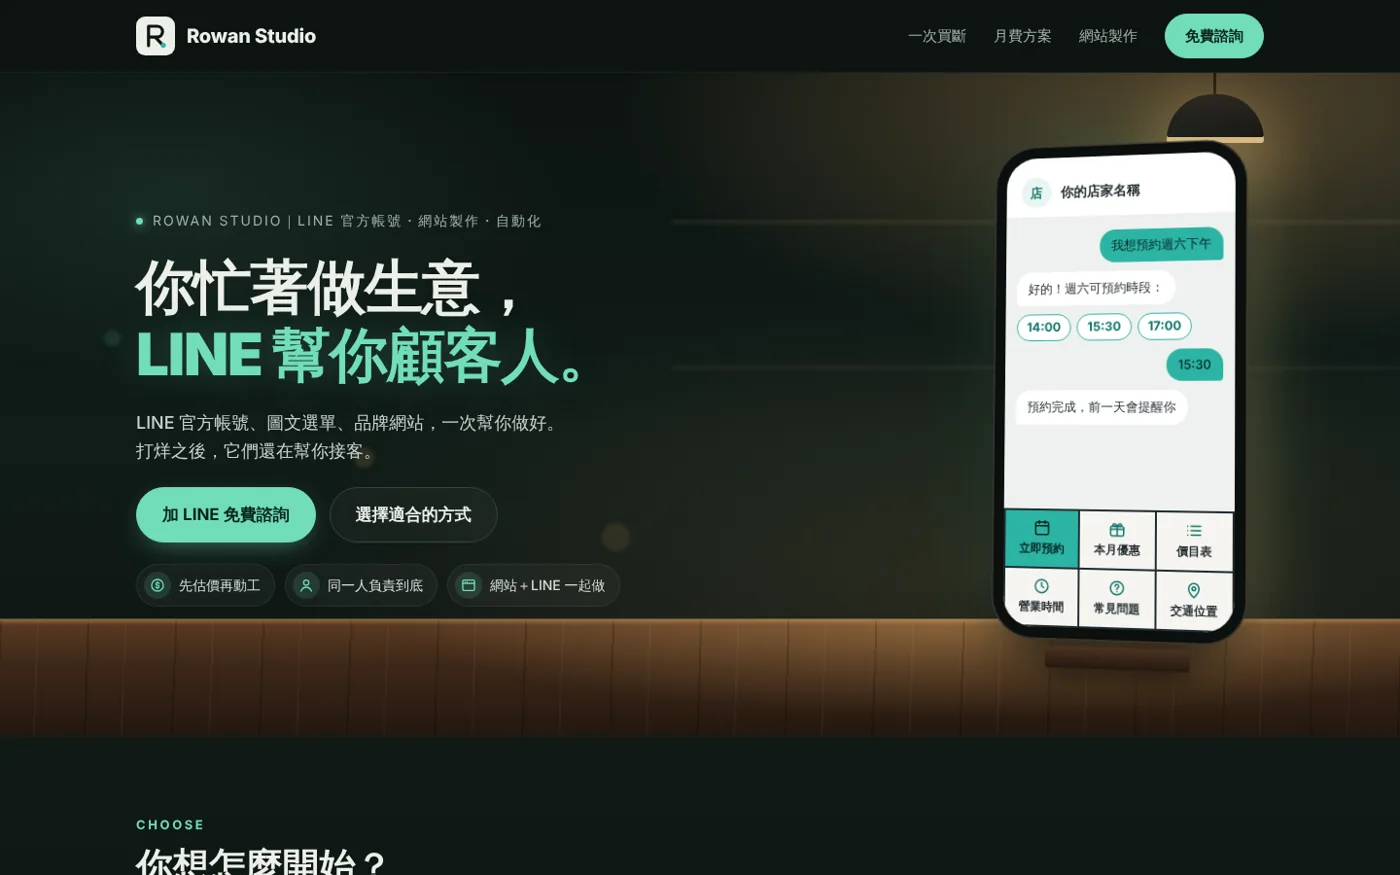
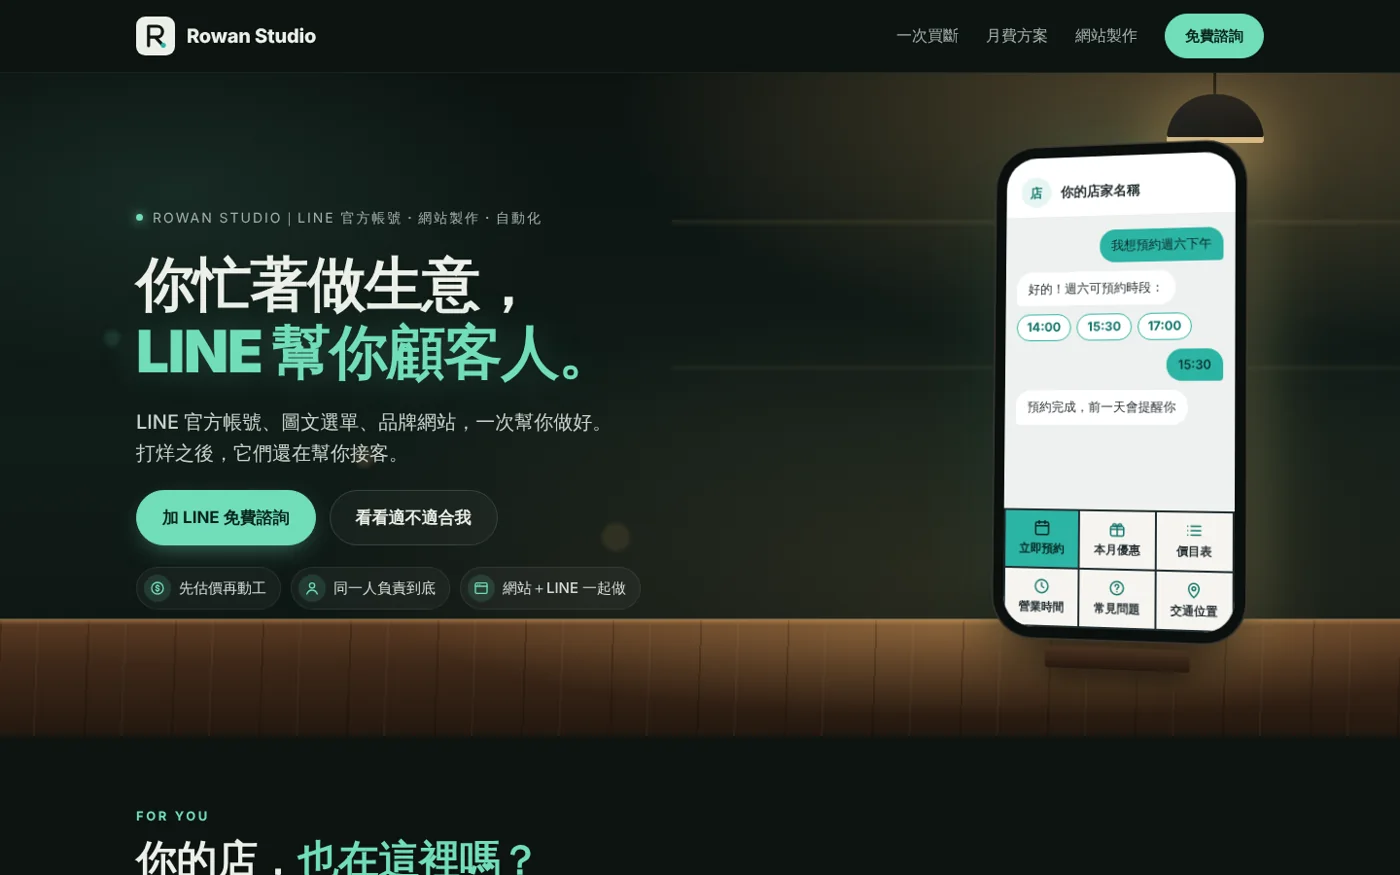
首頁重排：產業放大、WHY 三欄、價格往下、電腦版字放大 (#12)
Claude-Session: https://claude.ai/code/session_01Jv5xToDH4eLrV48W92rnBD

diff --git a/index.html b/index.html
@@ -50,6 +50,7 @@
   <symbol id="i-web" viewBox="0 0 24 24"><rect x="3" y="4" width="18" height="16" rx="2"></rect><path d="M3 9h18M7 6.5h.01M10 6.5h.01"></path></symbol>
   <symbol id="i-domain" viewBox="0 0 24 24"><circle cx="12" cy="12" r="9"></circle><path d="M3 12h18M12 3a14 14 0 0 1 0 18M12 3a14 14 0 0 0 0 18"></path></symbol>
   <symbol id="i-line" viewBox="0 0 24 24"><path d="M12 4C7 4 3 7.2 3 11.2c0 3.6 3.2 6.6 7.5 7.1l-.4 2.3 3.3-2.3c4.4-.3 7.6-3.4 7.6-7.1C21 7.2 17 4 12 4z"></path></symbol>
+  <symbol id="i-cross" viewBox="0 0 24 24"><rect x="3" y="3" width="18" height="18" rx="4"></rect><path d="M12 8v8M8 12h8"></path></symbol>
   <symbol id="i-image" viewBox="0 0 24 24"><rect x="3" y="4" width="18" height="16" rx="2"></rect><circle cx="9" cy="10" r="2"></circle><path d="M21 16l-5-5L5 20"></path></symbol>
 </svg>
 
@@ -80,7 +81,7 @@
       <p>LINE 官方帳號、圖文選單、品牌網站，一次幫你做好。<br />打烊之後，它們還在幫你接客。</p>
       <div class="cta-row">
         <a class="btn btn-dark line-add" href="#contact">加 LINE 免費諮詢</a>
-        <a class="btn btn-ghost" href="#choose">選擇適合的方式</a>
+        <a class="btn btn-ghost" href="#industries">看看適不適合我</a>
       </div>
       <div class="perks">
         <span class="perk"><i><svg class="ic"><use href="#i-coin"></use></svg></i>先估價再動工</span>
@@ -114,54 +115,30 @@
     </div>
   </section>
 
-  <!-- CHOOSE -->
-  <section id="choose" class="band band-deep">
-    <div class="wrap section">
-      <p class="eyebrow">CHOOSE</p>
-      <h2 class="h2">你想怎麼開始？<br /><em>選一個，往下看。</em></h2>
-      <div class="chooser">
-        <a class="choice" href="one-time.html">
-          <div class="choice-top"><i><svg class="ic"><use href="#i-key"></use></svg></i><span class="choice-tag">ONE-TIME</span></div>
-          <h3>一次買斷</h3>
-          <p>做好就是你的，不用每月繳。</p>
-          <ul><li><svg class="ic"><use href="#i-check"></use></svg>圖文選單＋自動回覆</li><li><svg class="ic"><use href="#i-check"></use></svg>預約、表單自動化</li><li><svg class="ic"><use href="#i-check"></use></svg>上線後教你自己改</li></ul>
-          <div class="choice-foot"><b>NT$3,000<small> 起</small></b><span>看方案<svg class="ic"><use href="#i-arrow"></use></svg></span></div>
-        </a>
-        <a class="choice" href="monthly.html">
-          <div class="choice-top"><i><svg class="ic"><use href="#i-refresh"></use></svg></i><span class="choice-tag">MONTHLY</span></div>
-          <h3>月費方案</h3>
-          <p>每月有人幫你顧，不綁約。</p>
-          <ul><li><svg class="ic"><use href="#i-check"></use></svg>選單、推播定期更新</li><li><svg class="ic"><use href="#i-check"></use></svg>AI 智慧客服 24 小時回</li><li><svg class="ic"><use href="#i-check"></use></svg>年繳免建置費</li></ul>
-          <div class="choice-foot"><b>NT$1,500<small> ／月起</small></b><span>看方案<svg class="ic"><use href="#i-arrow"></use></svg></span></div>
-        </a>
-        <a class="choice warm" href="new-shop.html">
-          <div class="choice-top"><i><svg class="ic"><use href="#i-web"></use></svg></i><span class="choice-tag">WEBSITE</span></div>
-          <h3>網站製作</h3>
-          <p>新開店、換新門面都適合。</p>
-          <ul><li><svg class="ic"><use href="#i-check"></use></svg>品牌形象網站</li><li><svg class="ic"><use href="#i-check"></use></svg>以你的名義申請網址</li><li><svg class="ic"><use href="#i-check"></use></svg>可加 LINE 官方帳號套餐</li></ul>
-          <div class="choice-foot"><b>NT$9,800<small> 起</small></b><span>看網站方案<svg class="ic"><use href="#i-arrow"></use></svg></span></div>
-        </a>
-      </div>
-      <p class="chooser-hint"><span><b>想自己管</b> → 一次買斷</span><span><b>沒空經營</b> → 月費方案</span><span><b>要做網站</b> → 網站製作</span></p>
+  <!-- INDUSTRIES -->
+  <section class="wrap section" id="industries" aria-labelledby="ind-h">
+    <p class="eyebrow">FOR YOU</p>
+    <h2 class="h2" id="ind-h">你的店，<em>也在這裡嗎？</em></h2>
+    <div class="ind-grid">
+      <div class="ind"><i><svg class="ic"><use href="#i-bowl"></use></svg></i><h3>餐飲小吃</h3><p>訂位、外帶預點、今日菜單</p></div>
+      <div class="ind"><i><svg class="ic"><use href="#i-nail"></use></svg></i><h3>美業美甲</h3><p>線上預約、作品集、回購提醒</p></div>
+      <div class="ind"><i><svg class="ic"><use href="#i-book"></use></svg></i><h3>補習才藝</h3><p>試聽報名、課表、成績查詢</p></div>
+      <div class="ind"><i><svg class="ic"><use href="#i-cross"></use></svg></i><h3>診所醫美</h3><p>線上掛號、門診時間、衛教</p></div>
+      <div class="ind"><i><svg class="ic"><use href="#i-paw"></use></svg></i><h3>寵物美容</h3><p>美容預約、住宿安親、價目</p></div>
+      <div class="ind"><i><svg class="ic"><use href="#i-helmet"></use></svg></i><h3>工程居家</h3><p>估價詢問、現勘預約、作品</p></div>
+      <div class="ind"><i><svg class="ic"><use href="#i-user"></use></svg></i><h3>個人工作室</h3><p>預約時段、服務介紹、聯絡</p></div>
+      <div class="ind"><i><svg class="ic"><use href="#i-bag"></use></svg></i><h3>零售電商</h3><p>新品通知、優惠券、會員集點</p></div>
     </div>
+    <p class="ind-more">不在上面？大多數需要「回訊息、接預約」的生意都適用，<a href="#contact">問我看看</a>。</p>
   </section>
 
   <!-- STORY -->
   <section class="band band-deep" id="story" aria-labelledby="story-h">
-    <div class="wrap story">
-      <div class="story-side">
+    <div class="wrap story story-cols">
+      <div class="story-head">
         <p class="eyebrow">WHY</p>
-        <h2 class="h2" id="story-h">客人在 LINE 上等，<br /><em>你在店裡忙。</em></h2>
+        <h2 class="h2" id="story-h">客人在 LINE 上等，<em>你在店裡忙。</em></h2>
         <p class="lead">這三件事，是大多數店家的日常。</p>
-        <p class="story-count">01 — 03</p>
-        <div class="who-mini" aria-label="適合的店家">
-          <span><svg class="ic"><use href="#i-bowl"></use></svg>餐飲</span>
-          <span><svg class="ic"><use href="#i-nail"></use></svg>美業</span>
-          <span><svg class="ic"><use href="#i-book"></use></svg>補習</span>
-          <span><svg class="ic"><use href="#i-paw"></use></svg>診所寵物</span>
-          <span><svg class="ic"><use href="#i-helmet"></use></svg>工程居家</span>
-          <span><svg class="ic"><use href="#i-bag"></use></svg>電商</span>
-        </div>
       </div>
       <div class="story-list">
         <article class="story-item">
@@ -259,6 +236,38 @@
     <button type="button" class="close" aria-label="關閉">×</button>
     <img id="viewer-img" src="" alt="" />
   </dialog>
+
+  <!-- CHOOSE -->
+  <section id="choose" class="band band-deep">
+    <div class="wrap section">
+      <p class="eyebrow">CHOOSE</p>
+      <h2 class="h2">喜歡嗎？<br /><em>選一個適合你的方式。</em></h2>
+      <div class="chooser">
+        <a class="choice" href="one-time.html">
+          <div class="choice-top"><i><svg class="ic"><use href="#i-key"></use></svg></i><span class="choice-tag">ONE-TIME</span></div>
+          <h3>一次買斷</h3>
+          <p>做好就是你的，不用每月繳。</p>
+          <ul><li><svg class="ic"><use href="#i-check"></use></svg>圖文選單＋自動回覆</li><li><svg class="ic"><use href="#i-check"></use></svg>預約、表單自動化</li><li><svg class="ic"><use href="#i-check"></use></svg>上線後教你自己改</li></ul>
+          <div class="choice-foot"><b>NT$3,000<small> 起</small></b><span>看方案<svg class="ic"><use href="#i-arrow"></use></svg></span></div>
+        </a>
+        <a class="choice" href="monthly.html">
+          <div class="choice-top"><i><svg class="ic"><use href="#i-refresh"></use></svg></i><span class="choice-tag">MONTHLY</span></div>
+          <h3>月費方案</h3>
+          <p>每月有人幫你顧，不綁約。</p>
+          <ul><li><svg class="ic"><use href="#i-check"></use></svg>選單、推播定期更新</li><li><svg class="ic"><use href="#i-check"></use></svg>AI 智慧客服 24 小時回</li><li><svg class="ic"><use href="#i-check"></use></svg>年繳免建置費</li></ul>
+          <div class="choice-foot"><b>NT$1,500<small> ／月起</small></b><span>看方案<svg class="ic"><use href="#i-arrow"></use></svg></span></div>
+        </a>
+        <a class="choice warm" href="new-shop.html">
+          <div class="choice-top"><i><svg class="ic"><use href="#i-web"></use></svg></i><span class="choice-tag">WEBSITE</span></div>
+          <h3>網站製作</h3>
+          <p>新開店、換新門面都適合。</p>
+          <ul><li><svg class="ic"><use href="#i-check"></use></svg>品牌形象網站</li><li><svg class="ic"><use href="#i-check"></use></svg>以你的名義申請網址</li><li><svg class="ic"><use href="#i-check"></use></svg>可加 LINE 官方帳號套餐</li></ul>
+          <div class="choice-foot"><b>NT$9,800<small> 起</small></b><span>看網站方案<svg class="ic"><use href="#i-arrow"></use></svg></span></div>
+        </a>
+      </div>
+      <p class="chooser-hint"><span><b>想自己管</b> → 一次買斷</span><span><b>沒空經營</b> → 月費方案</span><span><b>要做網站</b> → 網站製作</span></p>
+    </div>
+  </section>
 
   <!-- PROMISE -->
   <section class="wrap section" aria-labelledby="promise-h">

diff --git a/styles.css b/styles.css
@@ -471,6 +471,50 @@ footer .f-brand { display: flex; align-items: center; gap: 10px; }
 .demo-card em { font-style: normal; color: var(--mint); font-size: 14px; font-weight: 700; margin-top: 4px; }
 @media (max-width: 480px) { .demo-card img { width: 120px; } }
 
+/* ===== 適用產業（大格） ===== */
+.ind-grid { display: grid; grid-template-columns: repeat(4, minmax(0, 1fr)); gap: 16px; }
+.ind { padding: 26px 22px; border-radius: 22px; border: 1px solid var(--line); background: linear-gradient(160deg, rgba(255,255,255,.035), transparent 60%), var(--surface); display: flex; flex-direction: column; gap: 8px; transition: border-color .25s, transform .25s; }
+.ind:hover { border-color: rgba(111,221,185,.45); transform: translateY(-3px); }
+.ind i { width: 60px; height: 60px; border-radius: 18px; background: var(--mint-dim); color: var(--mint); display: flex; align-items: center; justify-content: center; margin-bottom: 6px; }
+.ind i .ic { width: 30px; height: 30px; }
+.ind h3 { margin: 0; font-size: 21px; }
+.ind p { margin: 0; color: var(--muted); font-size: 15px; }
+.ind-more { margin: 22px 0 0; color: var(--muted); font-size: 16px; }
+@media (max-width: 960px) { .ind-grid { grid-template-columns: repeat(2, minmax(0, 1fr)); } }
+@media (max-width: 420px) { .ind { padding: 20px 16px; } .ind h3 { font-size: 18px; } .ind i { width: 50px; height: 50px; } }
+
+/* ===== WHY：標題在上、三欄並排 ===== */
+.story.story-cols { display: block; }
+.story-head { max-width: 760px; margin-bottom: 40px; }
+.story-head .h2 { margin: 0 0 10px; font-size: clamp(30px, 3.6vw, 44px); }
+.story-head .lead { margin: 0; }
+.story-cols .story-list { display: grid; grid-template-columns: repeat(3, minmax(0, 1fr)); gap: 24px; }
+.story-cols .story-item { padding: 0; border-top: 0; }
+.story-cols .story-card { max-width: none; min-height: 168px; }
+@media (max-width: 860px) { .story-cols .story-list { grid-template-columns: 1fr; gap: 36px; } }
+
+/* ===== 電腦版字級放大 ===== */
+@media (min-width: 1024px) {
+  body { font-size: 17px; }
+  .h2 { font-size: 42px; }
+  .lead, .mode-note, .chooser-hint, .page-hero p { font-size: 18px; }
+  .hero p { font-size: 20px; }
+  .perk { font-size: 15px; }
+  .svc h3 { font-size: 21px; } .svc p { font-size: 16px; }
+  .story-item h3 { font-size: 28px; } .story-item p:last-child { font-size: 16px; }
+  .story-card .q, .story-card .todo { font-size: 15px; }
+  .choice h3 { font-size: 26px; } .choice p { font-size: 16px; } .choice ul { font-size: 15px; }
+  .plan h3 { font-size: 21px; } .plan .sub { font-size: 15px; } .feats { font-size: 16px; }
+  .pr h3 { font-size: 20px; } .pr p { font-size: 15px; }
+  .step h3 { font-size: 19px; } .step p { font-size: 15px; }
+  .faq summary { font-size: 17px; } .faq p { font-size: 16px; }
+  .shot-item figcaption { font-size: 15px; } .shot-item figcaption span { font-size: 14px; }
+  .work-text p:not(.work-kind) { font-size: 16px; }
+  .row { font-size: 16px; }
+  .nav-links { font-size: 16px; }
+  label { font-size: 15px; }
+}
+
 /* 換頁滑動（支援的瀏覽器才有，其餘照常換頁） */
 @view-transition { navigation: auto; }
 header { view-transition-name: site-header; }

diff --git a/main.js b/main.js
@@ -46,7 +46,7 @@ if (viewer) {
 (function () {
   if (!('IntersectionObserver' in window)) return;
   if (window.matchMedia && matchMedia('(prefers-reduced-motion: reduce)').matches) return;
-  const groups = ['.story-item', '.who-mini', '.choice', '.svc', '.plan', '.mode-note', '.ala', '.pr', '.step', '.shot-item', '.site-shot', '.work-text', '.kit', '.faq details', '.contact', '.eyebrow', '.h2', '.lead'];
+  const groups = ['.story-item', '.ind', '.choice', '.svc', '.plan', '.mode-note', '.ala', '.pr', '.step', '.shot-item', '.site-shot', '.work-text', '.kit', '.faq details', '.contact', '.eyebrow', '.h2', '.lead'];
   const els = [];
   groups.forEach(sel => document.querySelectorAll(sel).forEach(el => {
     if (els.includes(el)) return;
